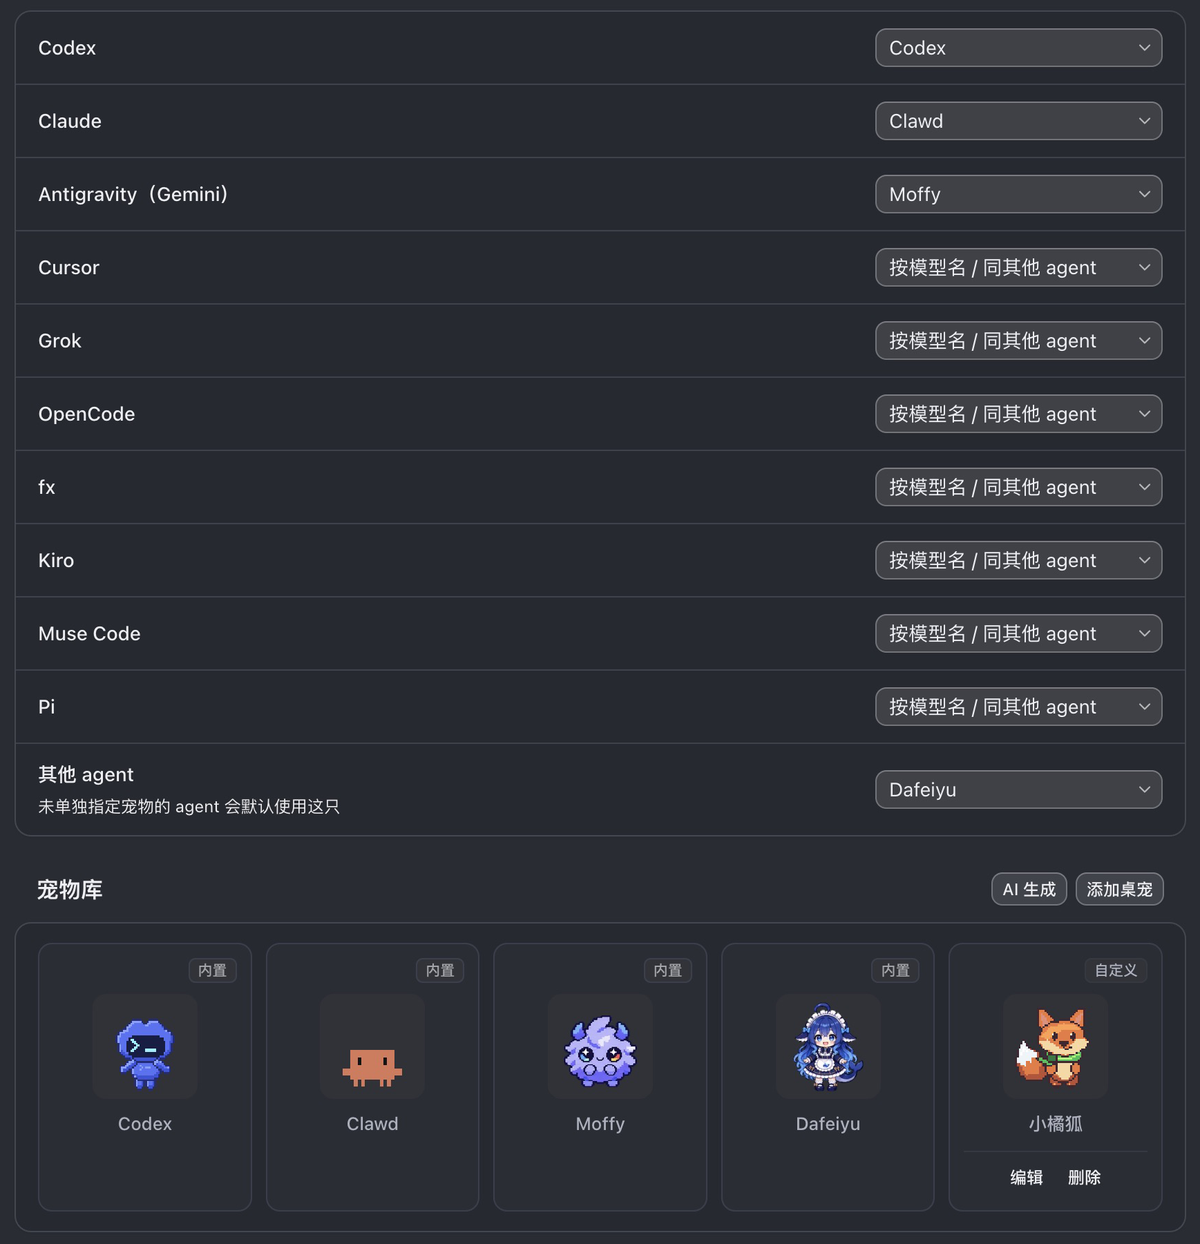
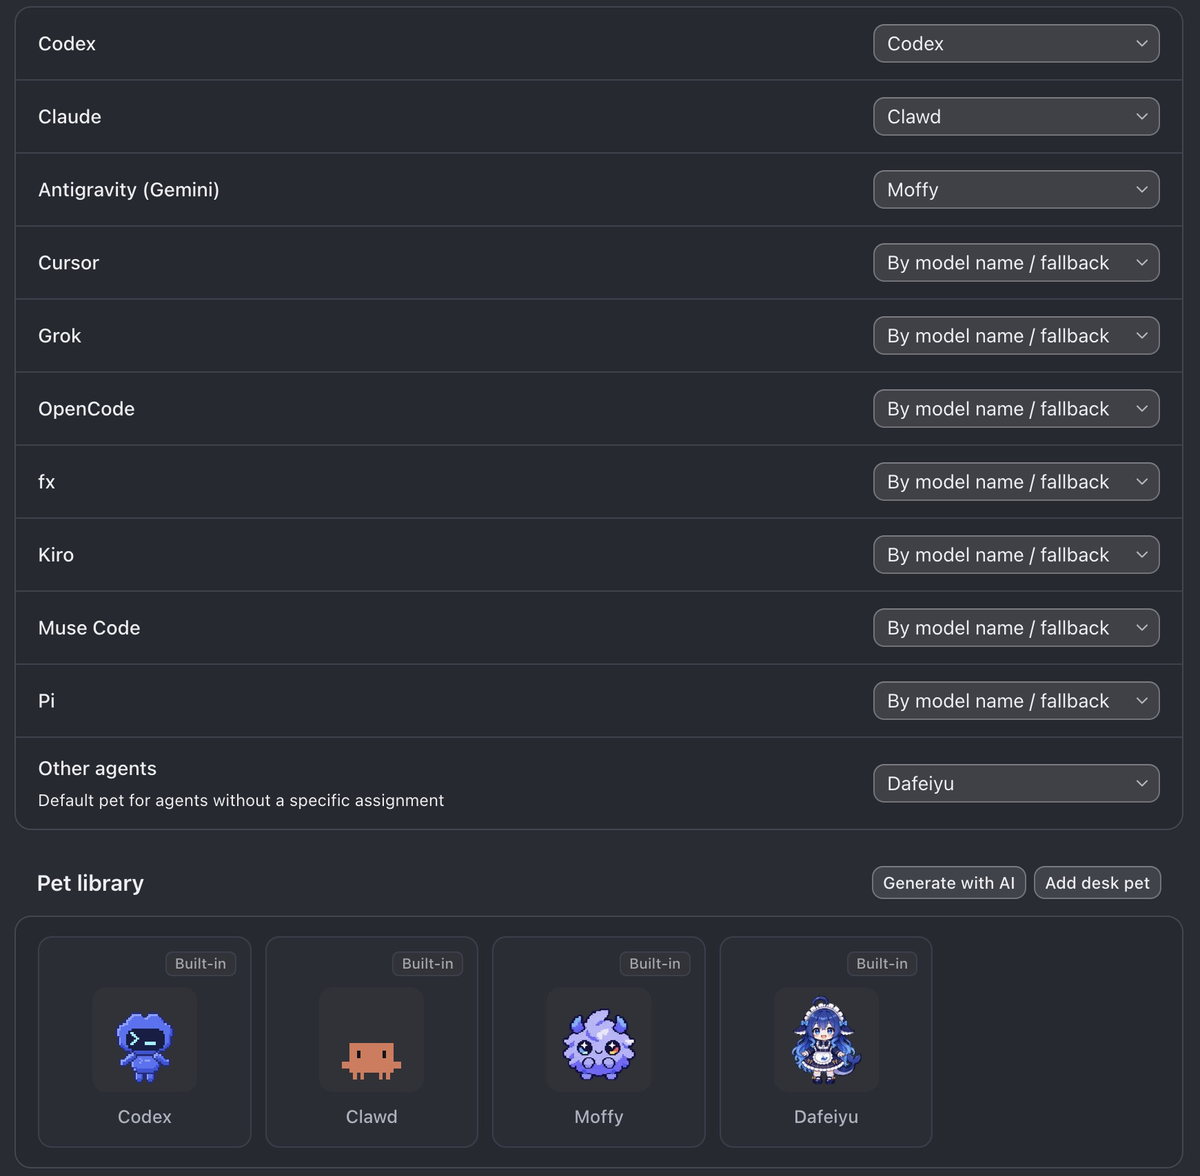
README: animations for context, subagents and interaction; English settings and menu screenshots

diff --git a/README.en.md b/README.en.md
@@ -10,8 +10,6 @@ Built in: a Codex-style pet for Codex, Clawd for Claude, Moffy for Antigravity (
 
 ![Pets standing on the composer](docs/pets-composer.png)
 
-![Desk pet settings: a pet per agent, the pet library and the Generate with AI button](docs/pets-settings.png)
-
 An extension for [T3 Code Extensions](https://github.com/ZiHao256/t3code-extensions), an unofficial extension host for [T3 Code](https://github.com/pingdotgg/t3code). Install it in Settings → Extensions → Browse, or paste `https://github.com/ZiHao256/t3x-desk-pets` into the URL field there. "Check for updates" offers this repository's latest release, installed after you confirm.
 
 ## Features
@@ -22,10 +20,14 @@ An extension for [T3 Code Extensions](https://github.com/ZiHao256/t3code-extensi
 - The pet swells as the context fills up and gets restless near the limit; while T3 compacts history it squashes itself flat, then pops back.
 - When you switch threads or agents, the old pet leaves and the new one enters.
 
+![As the context fills up, Moffy gets fatter and starts sweating; it squashes itself while the history is compacted and pops back afterwards](docs/pets-swell.gif)
+
 **Subagents**
 - When the main agent dispatches a subagent (anything T3 registers as a subagent, such as Claude's subagents or tasks sent to Codex or another provider with `delegate_task`), that agent's pet runs over to say hi, takes a seat and gets to work; the main pet turns to glance at it.
 - When a subagent finishes, its pet high-fives the main pet and leaves; on failure it hangs its head for a moment first, and if it sits too far away it waves goodbye instead. When several finish at once, they say goodbye one after another.
 - When there's no room left, a "+N" badge shows the rest, and they take seats as space frees up. Switch to another thread and back, and entrances and exits you missed are replayed.
+
+![While Clawd works, the pets of three subagents (Codex, Moffy and Dafeiyu) run in and sit down; Codex high-fives Clawd when it finishes, Moffy hangs its head after failing, and Dafeiyu, sitting too far away, waves goodbye](docs/pets-subagents.gif)
 
 **Playing with pets**
 - Hover over the main pet and it waves; move the pointer nearby and its eyes follow it (16 directions).
@@ -35,9 +37,15 @@ An extension for [T3 Code Extensions](https://github.com/ZiHao256/t3code-extensi
 - Right-click a pet: switch pet, say hi, quiet mode, desk pet settings, hide. Hiding lasts until the next launch; right-click the model picker in the composer to bring them back, switch pets or toggle quiet mode.
 - In quiet mode pets stay put: no wandering, no celebrations, and subagent pets simply sit down and leave. With the system's "reduce motion" setting on, pets also don't wander or turn to follow the pointer.
 
+![Clawd's eyes follow the pointer, it waves on hover and jumps on click; it gets dragged left along the composer, then Codex is dropped onto it and the two bump heads](docs/pets-interact.gif)
+
+![The pet's right-click menu: switch pet (the submenu lists the pet library), say hi, quiet mode, desk pet settings, hide desk pet](docs/pets-menu.png)
+
 **Settings** (Settings → Extensions → Desk pets → Settings, or right-click a pet → Desk pet settings…)
 - A pet for each agent: choose one for every harness configured in T3 and for "other agents", or choose "By model name / fallback" or "Hide pet".
 - Pet library: add pets by uploading a sprite sheet; edit the name, scale, pixel art and pixel-art particles; delete them; or have an agent generate one (see below).
+
+![Desk pet settings: a pet per agent, the pet library and the Generate with AI button](docs/pets-settings.png)
 
 ## Install with an agent
 

diff --git a/README.md b/README.md
@@ -10,8 +10,6 @@
 
 ![站在输入框上的宠物](docs/pets-composer.png)
 
-![桌宠设置：每个 agent 用哪只、宠物库和「AI 生成」按钮](docs/pets-settings.png)
-
 [T3 Code Extensions](https://github.com/ZiHao256/t3code-extensions) 的扩展，T3 Code Extensions 是 [T3 Code](https://github.com/pingdotgg/t3code) 的非官方扩展宿主。在 设置 → 扩展 →「浏览」里安装，或者把 `https://github.com/ZiHao256/t3x-desk-pets` 粘贴到那里的链接框。「检查更新」取本仓库的最新 Release，确认后安装。
 
 ## 功能
@@ -22,10 +20,14 @@
 - 上下文越满宠物越胖，快满时坐立不安；T3 压缩历史时它把自己挤扁，压完“噗”地弹回。
 - 换会话或换 agent 时，旧宠物离场，新的那只入场。
 
+![上下文越来越满，Moffy 越来越胖、冒汗；压缩历史时挤扁，压完弹回](docs/pets-swell.gif)
+
 **子代理**
 - 主 agent 派出子代理（T3 里登记为子代理的都算，比如 Claude 的子 agent、`delegate_task` 委派给 Codex 等其他 provider 的任务）时，对应 agent 的宠物跑过来打招呼，落座后埋头干活；主宠物会转头看它一眼。
 - 子代理完成时和主宠物击掌后离开，失败时垂头一会儿再走，离得太远够不着时挥手告别；好几只同时收工就排队依次告别。
 - 坐不下时显示“+N”，腾出座位再补上来。切到别的会话再回来，离开期间的进出场会补播。
+
+![Clawd 干活时，Codex、Moffy、Dafeiyu 三个子代理的宠物依次跑来落座；Codex 完成后和 Clawd 击掌离开，Moffy 失败垂头后离开，Dafeiyu 离得远，挥手告别](docs/pets-subagents.gif)
 
 **和宠物互动**
 - 鼠标移到主宠物身上它会挥手；鼠标在附近移动时，它的眼睛跟着指针转（16 个方向）。
@@ -35,9 +37,15 @@
 - 右键宠物：换一只宠物、打个招呼、安静模式、桌宠设置、隐藏桌宠。隐藏只在这次启动内有效，右键输入框里的模型选择器可以叫回来，也能在那里换宠物、开关安静模式。
 - 安静模式下宠物原地待着：不闲逛、不庆祝，子代理直接落座和离开。系统开了“减弱动态效果”时，宠物也不闲逛、不跟着指针转头。
 
+![指针在 Clawd 附近移动时它的眼睛跟着转，移上去它挥手，单击跳一下；把它沿输入框拖到左边，再把 Codex 拖到它身上松手，两只碰头](docs/pets-interact.gif)
+
+![右键宠物的菜单：换宠物（子菜单列出宠物库）、打招呼、安静模式、桌宠设置、隐藏桌宠](docs/pets-menu.png)
+
 **设置**（设置 → 扩展 → 桌宠 →「设置」，或右键宠物 →「桌宠设置…」）
 - 每个 agent 用哪只：T3 里配置的每个 harness 和“其他 agent”各选一只，也可以选“按模型名 / 同其他 agent”或“不显示”。
 - 宠物库：上传精灵图添加，编辑名称、缩放、像素画和像素风粒子，删除；也可以让 agent 生成（见下文）。
+
+![桌宠设置：每个 agent 用哪只、宠物库和「AI 生成」按钮](docs/pets-settings.png)
 
 ## 让 agent 安装
 
